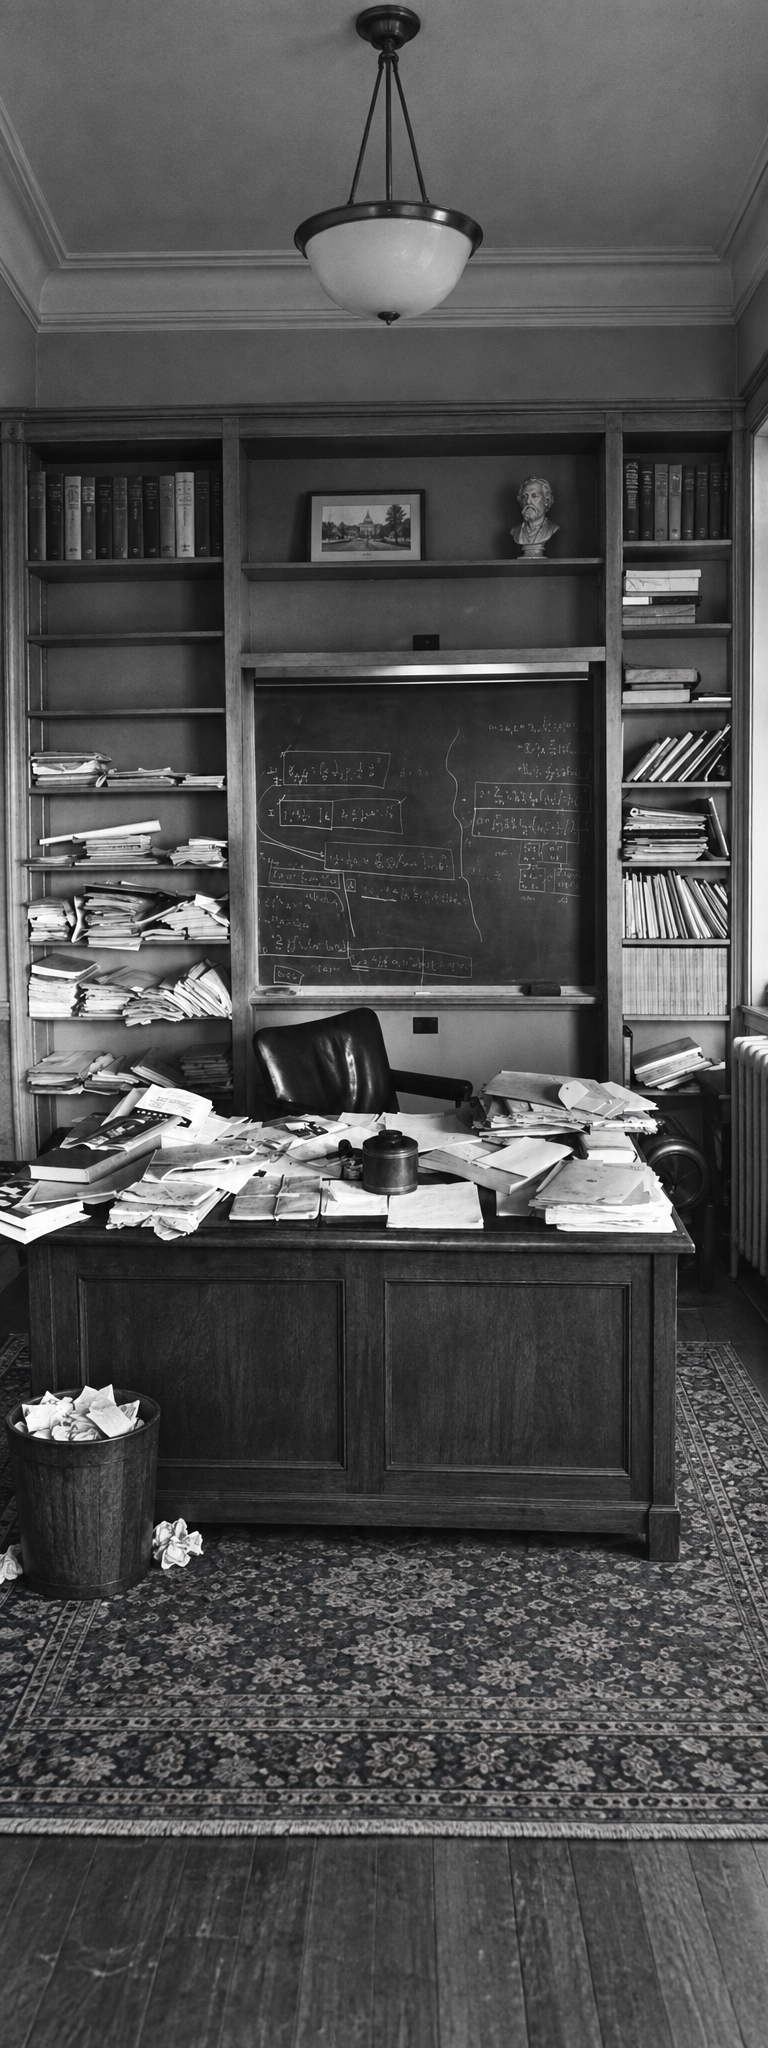
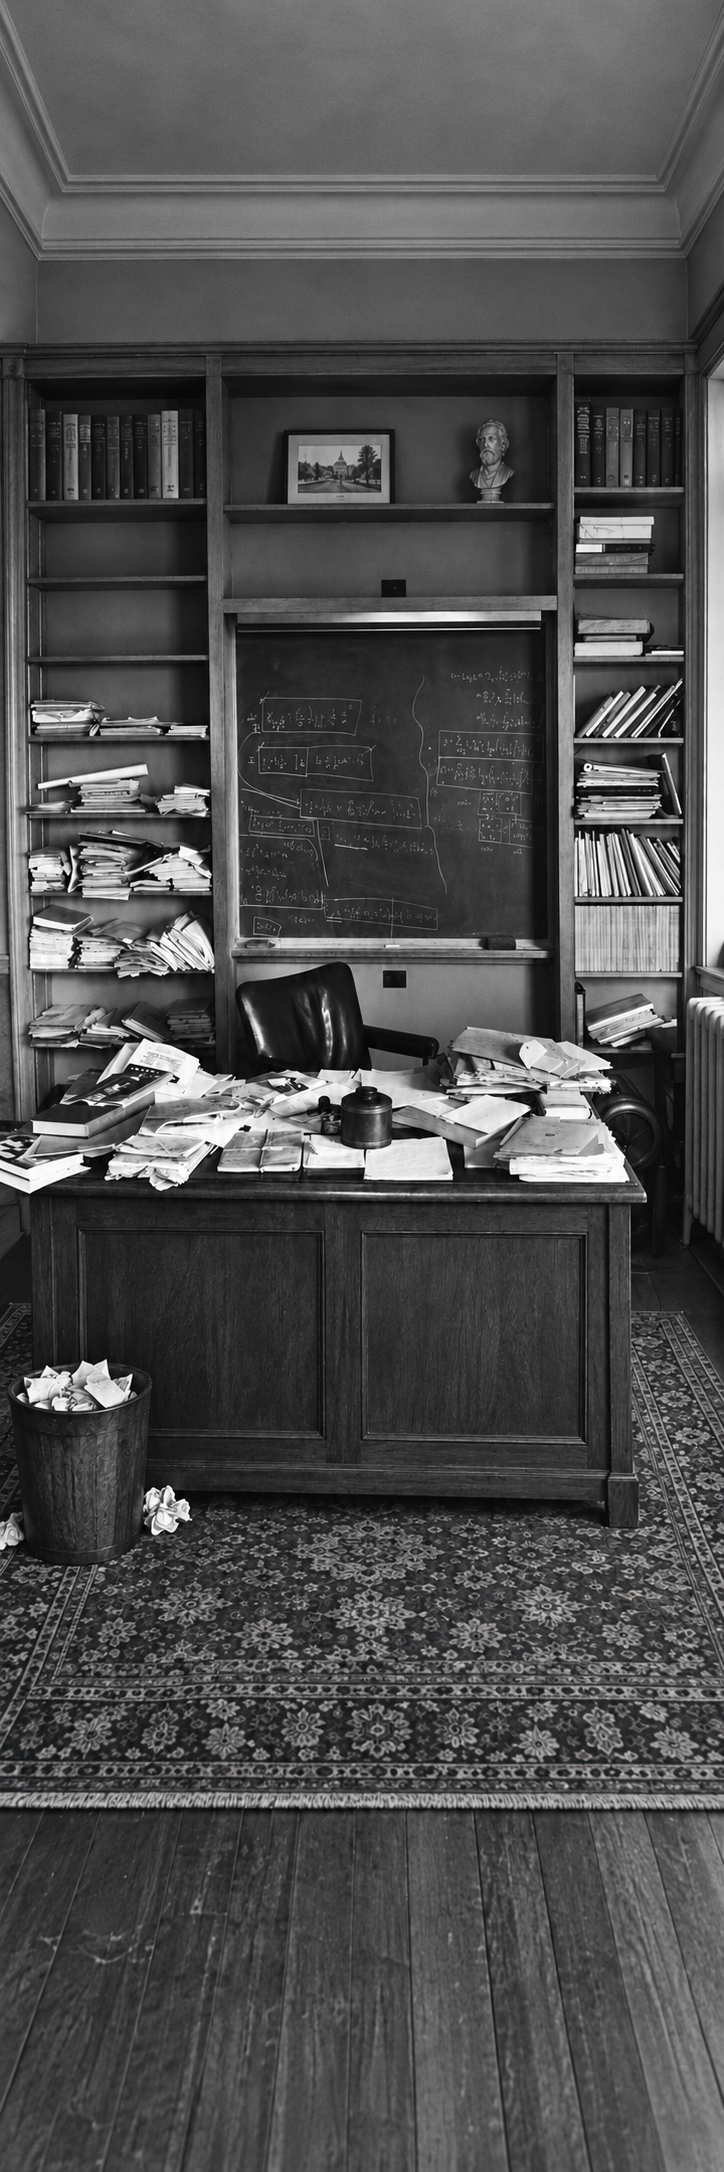
Update research pages and team layout

diff --git a/src/main/resources/templates/research.html b/src/main/resources/templates/research.html
@@ -66,7 +66,7 @@
                             rgba(4, 4, 4, 0.38),
                             rgba(4, 4, 4, 0.72)
                     ),
-                    url('/images/research-bg.jpg');
+                    url('/images/research-bg.png');
 
             background-size:
                     100% 100%,
